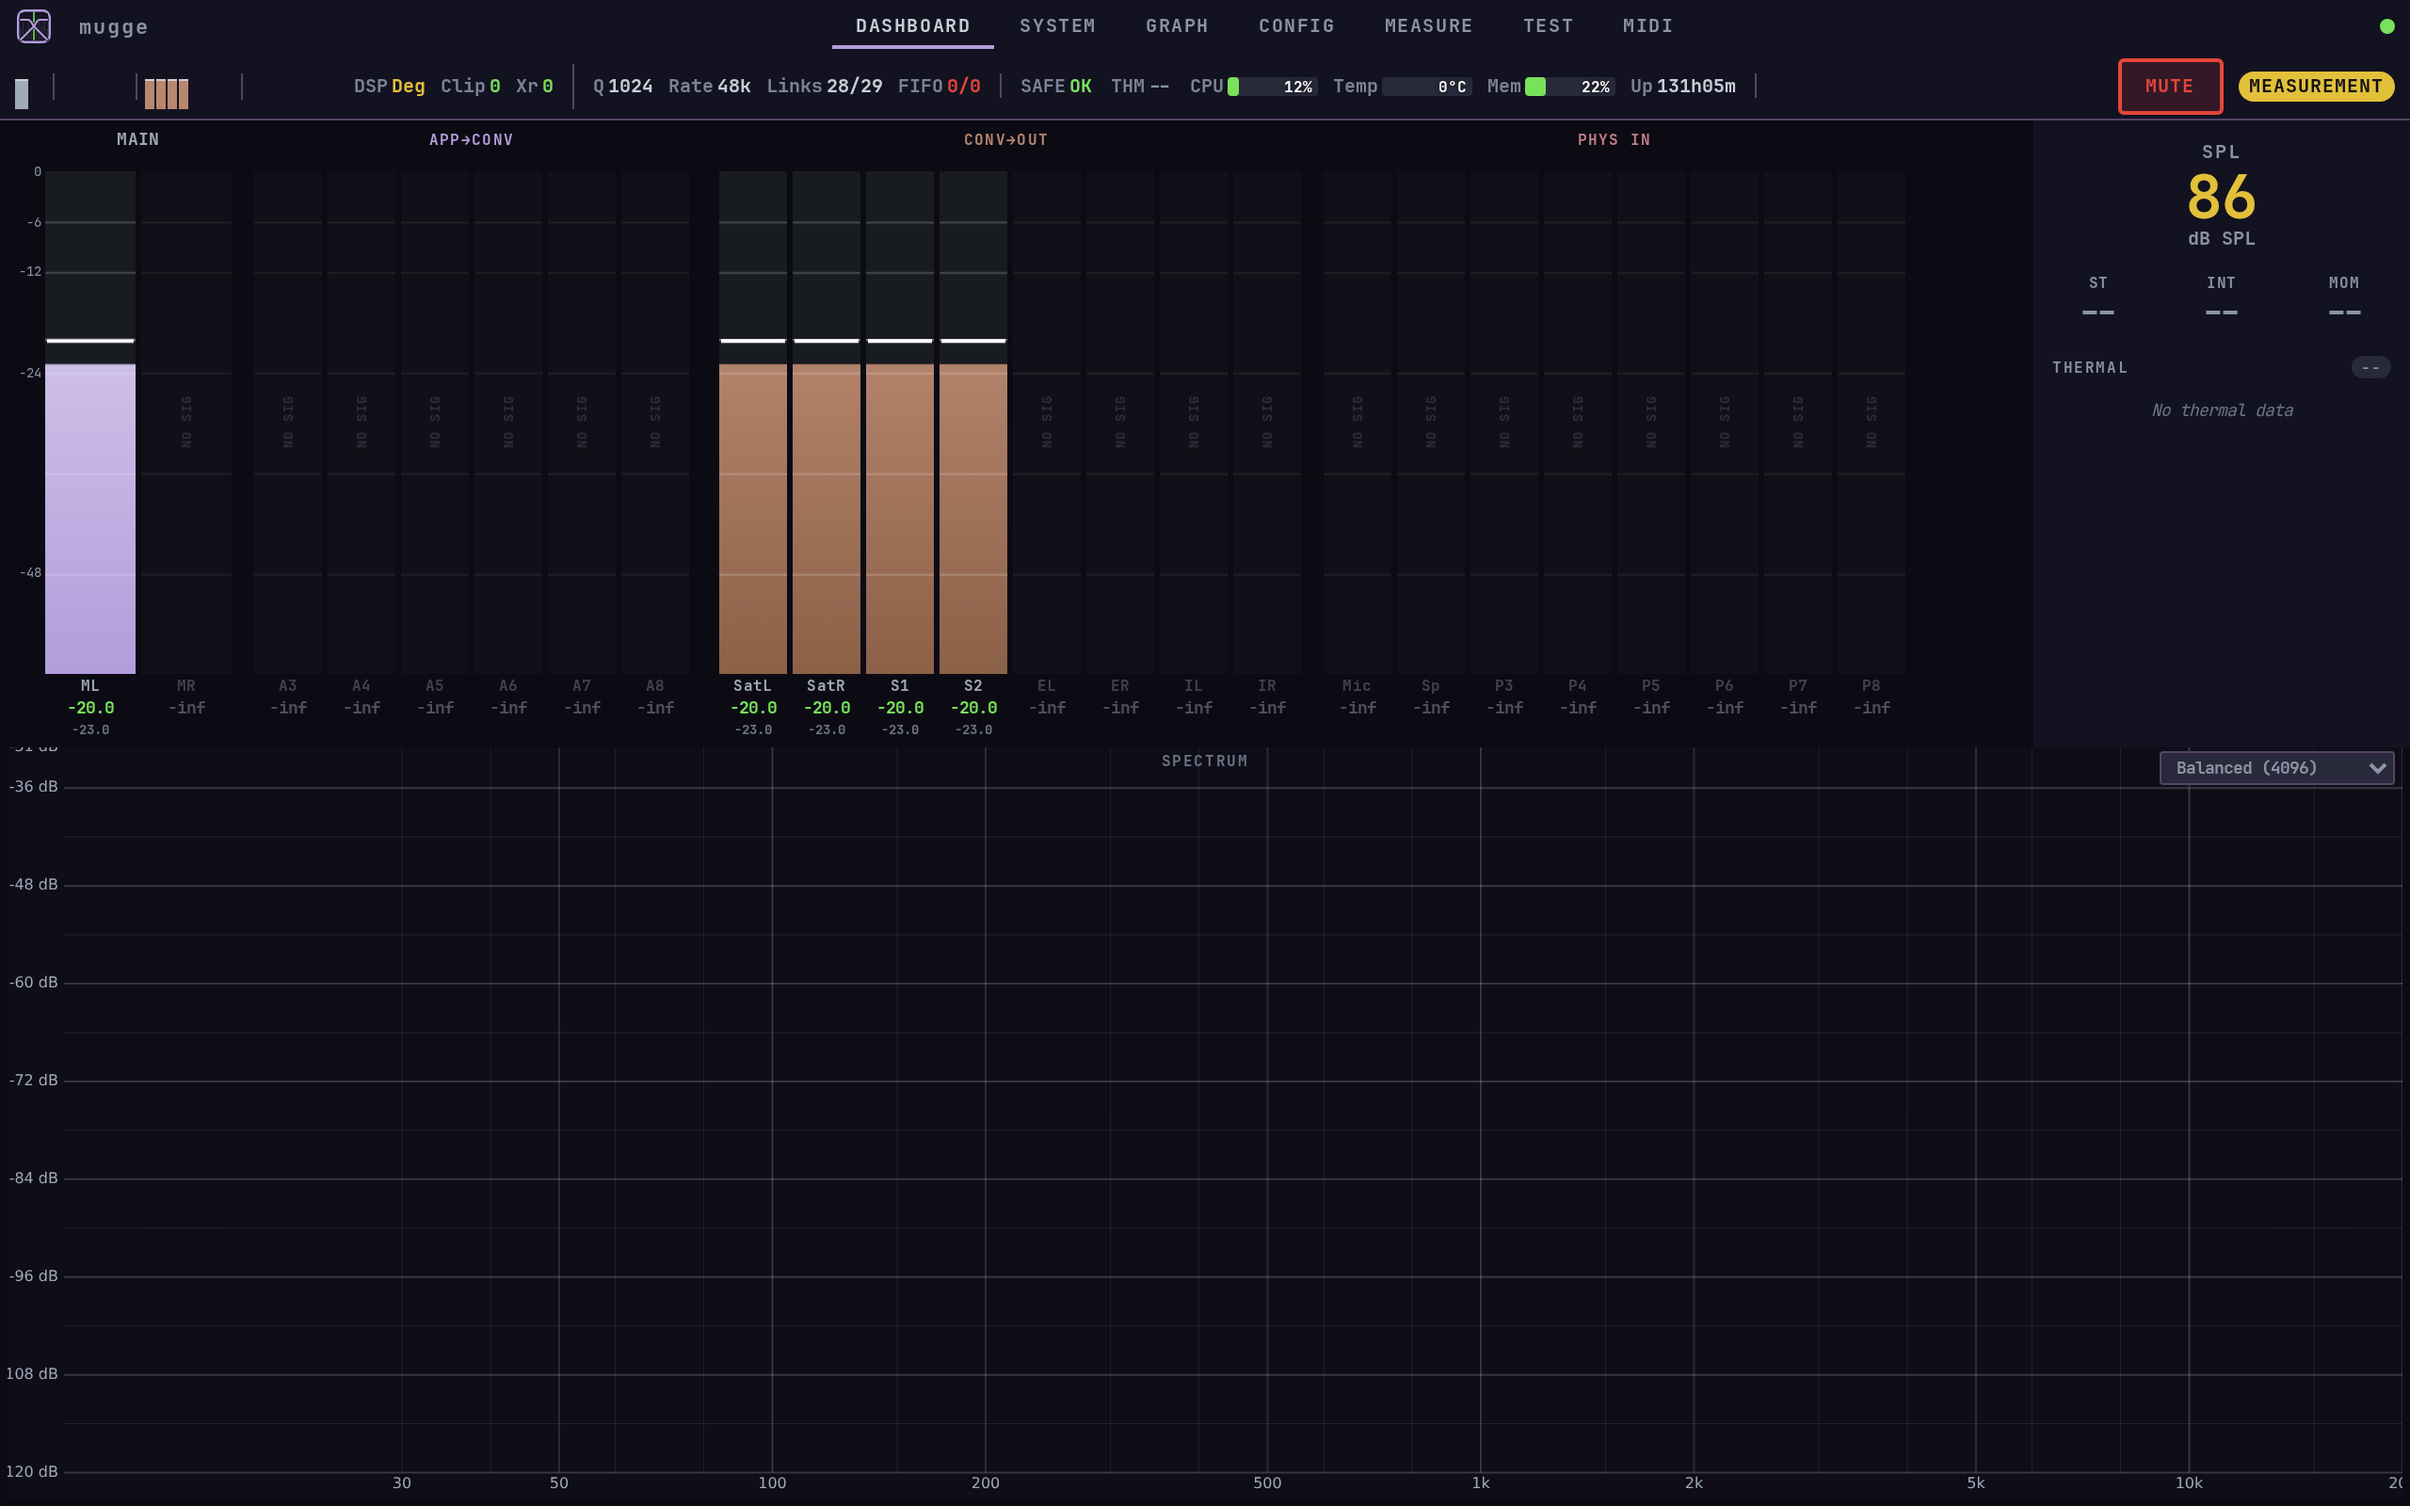
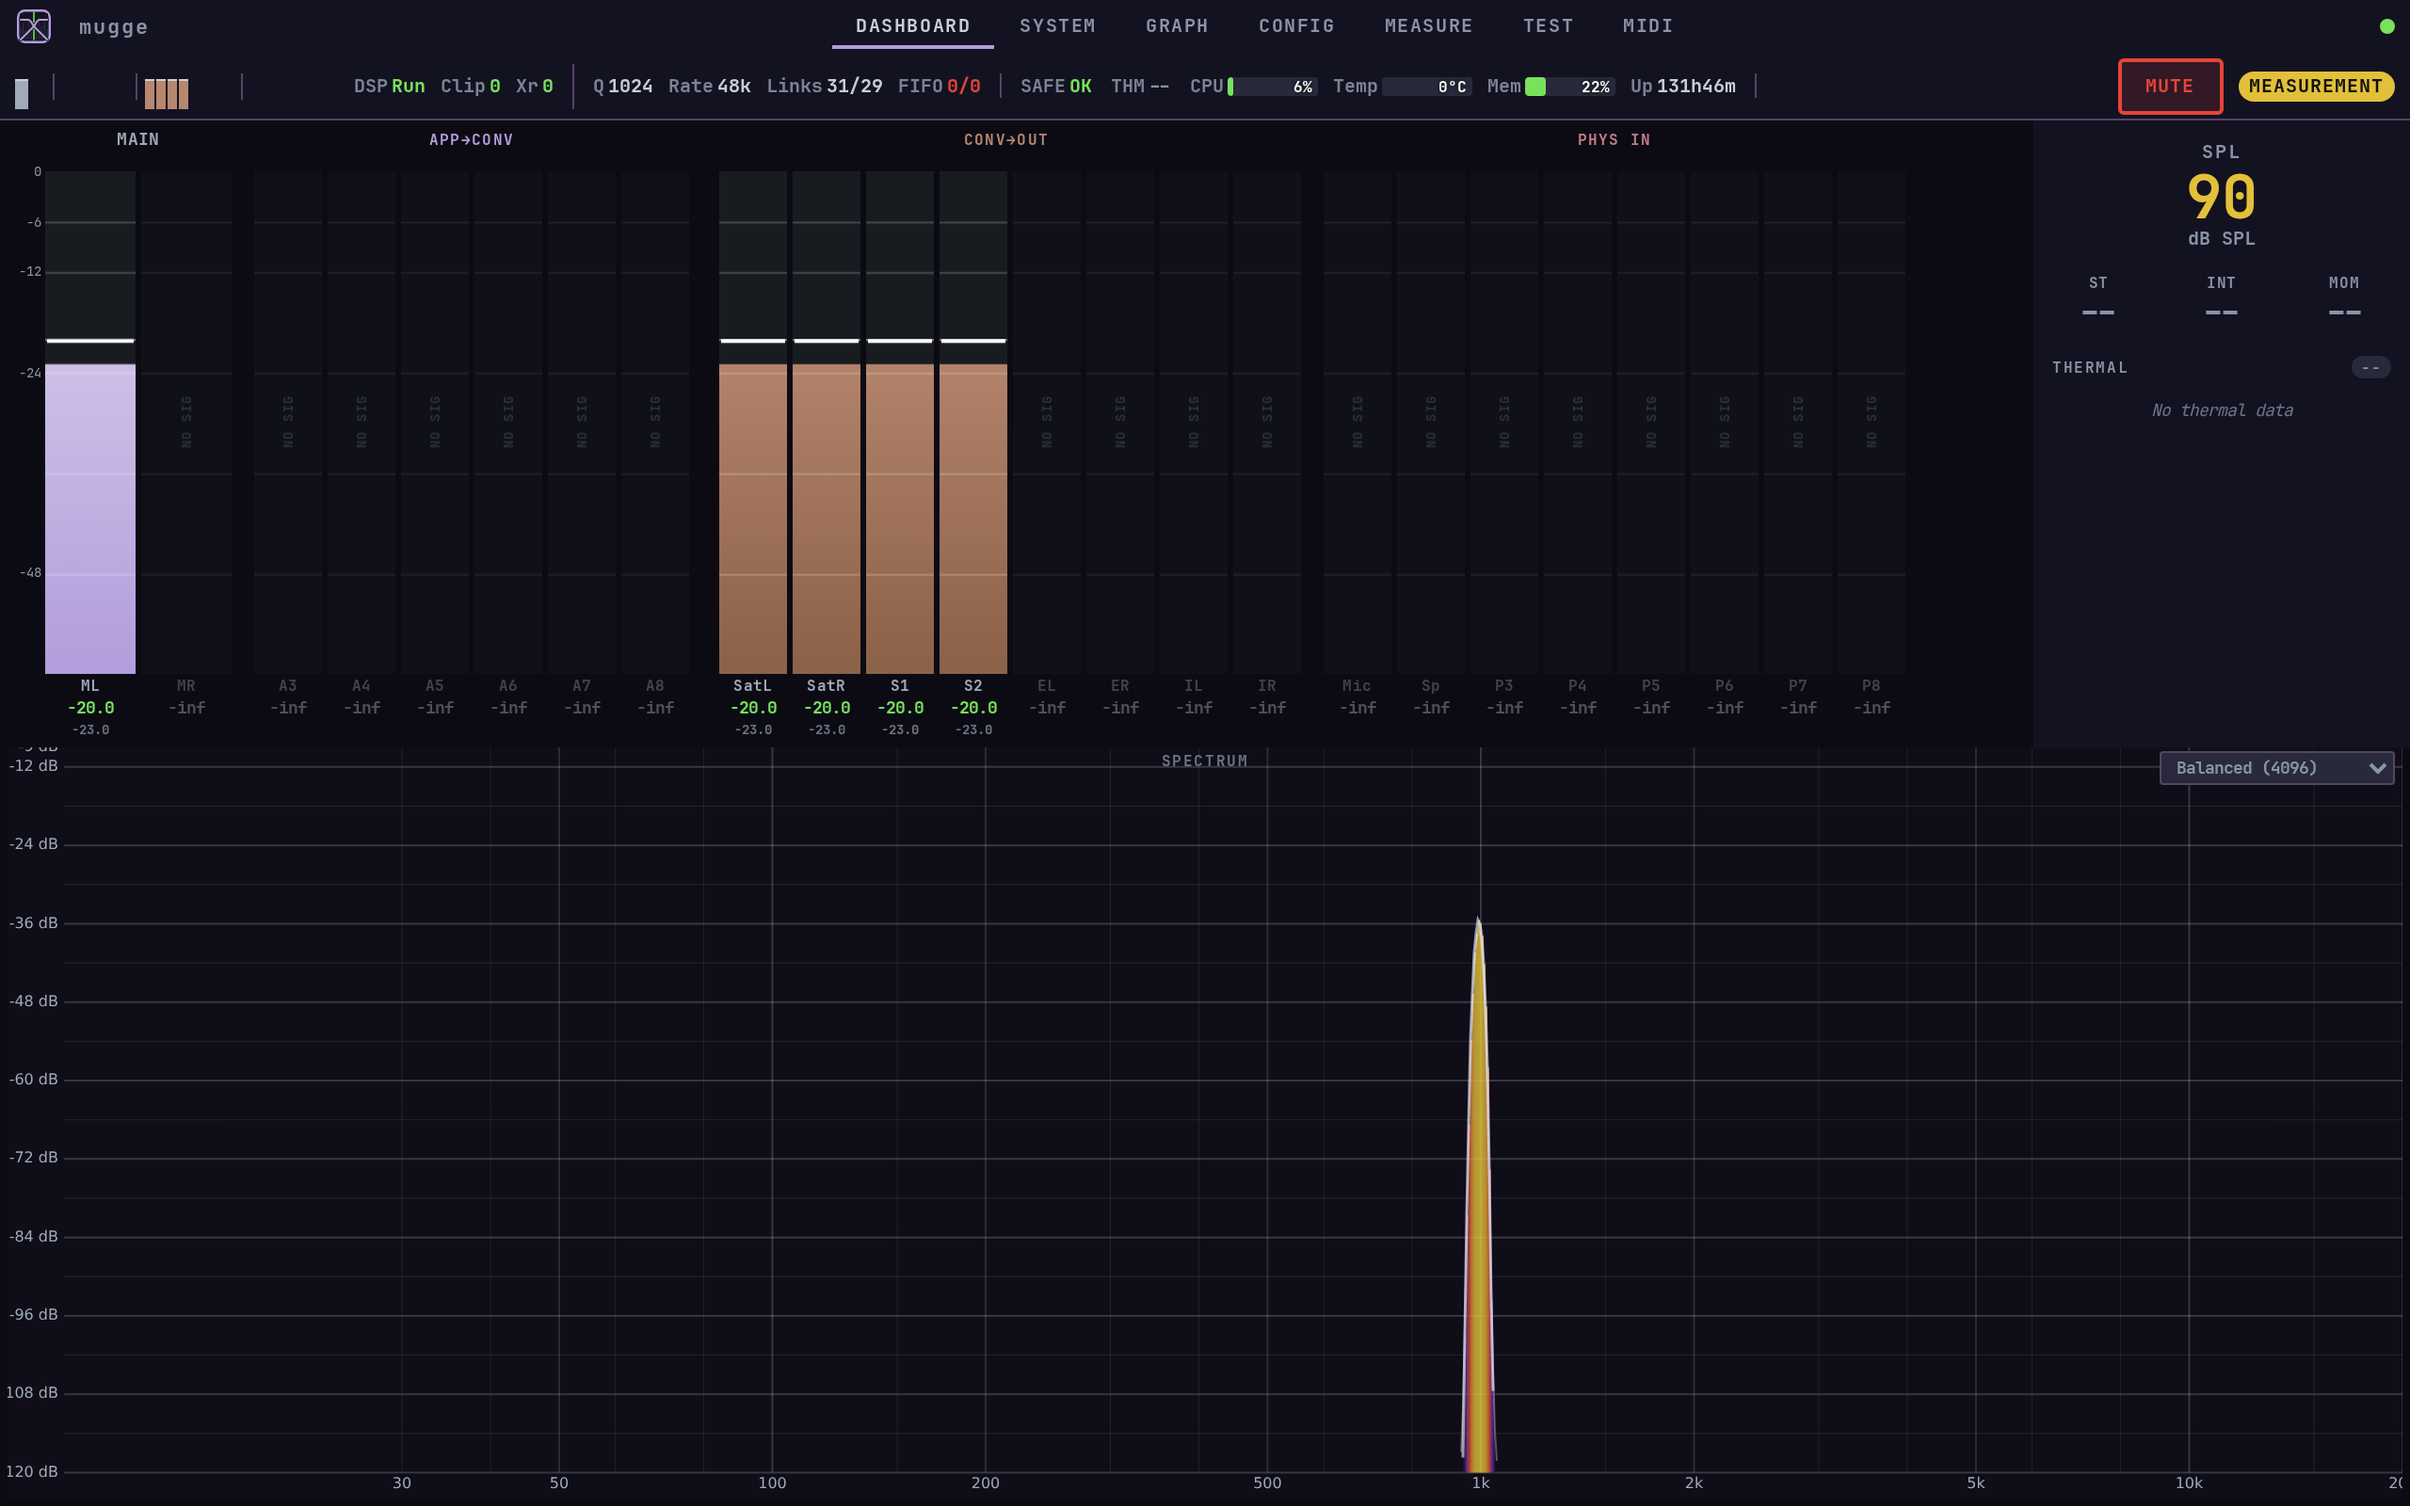
test(US-077): DoD #2 updated screenshots with spectrum content
Capture script waits 8s (was 5s) for spectrum data to stabilize.
screenshot-local-demo.sh runs pcm-bridge in capture mode targeting
convolver output so spectrum channels have real data in local-demo.

diff --git a/scripts/capture-ui-screenshot.py b/scripts/capture-ui-screenshot.py
@@ -102,8 +102,8 @@ def main():
 
         # Wait for level data to appear in meters. The dashboard canvases
         # render at ~30Hz once data flows. Give it a few seconds to stabilize.
-        print("[screenshot] Waiting 5s for meter data to stabilize...")
-        time.sleep(5)
+        print("[screenshot] Waiting 8s for meter + spectrum data to stabilize...")
+        time.sleep(8)
 
         # Screenshot 1: Full dashboard view with meters.
         path_dashboard = out_dir / "dashboard-meters.png"
